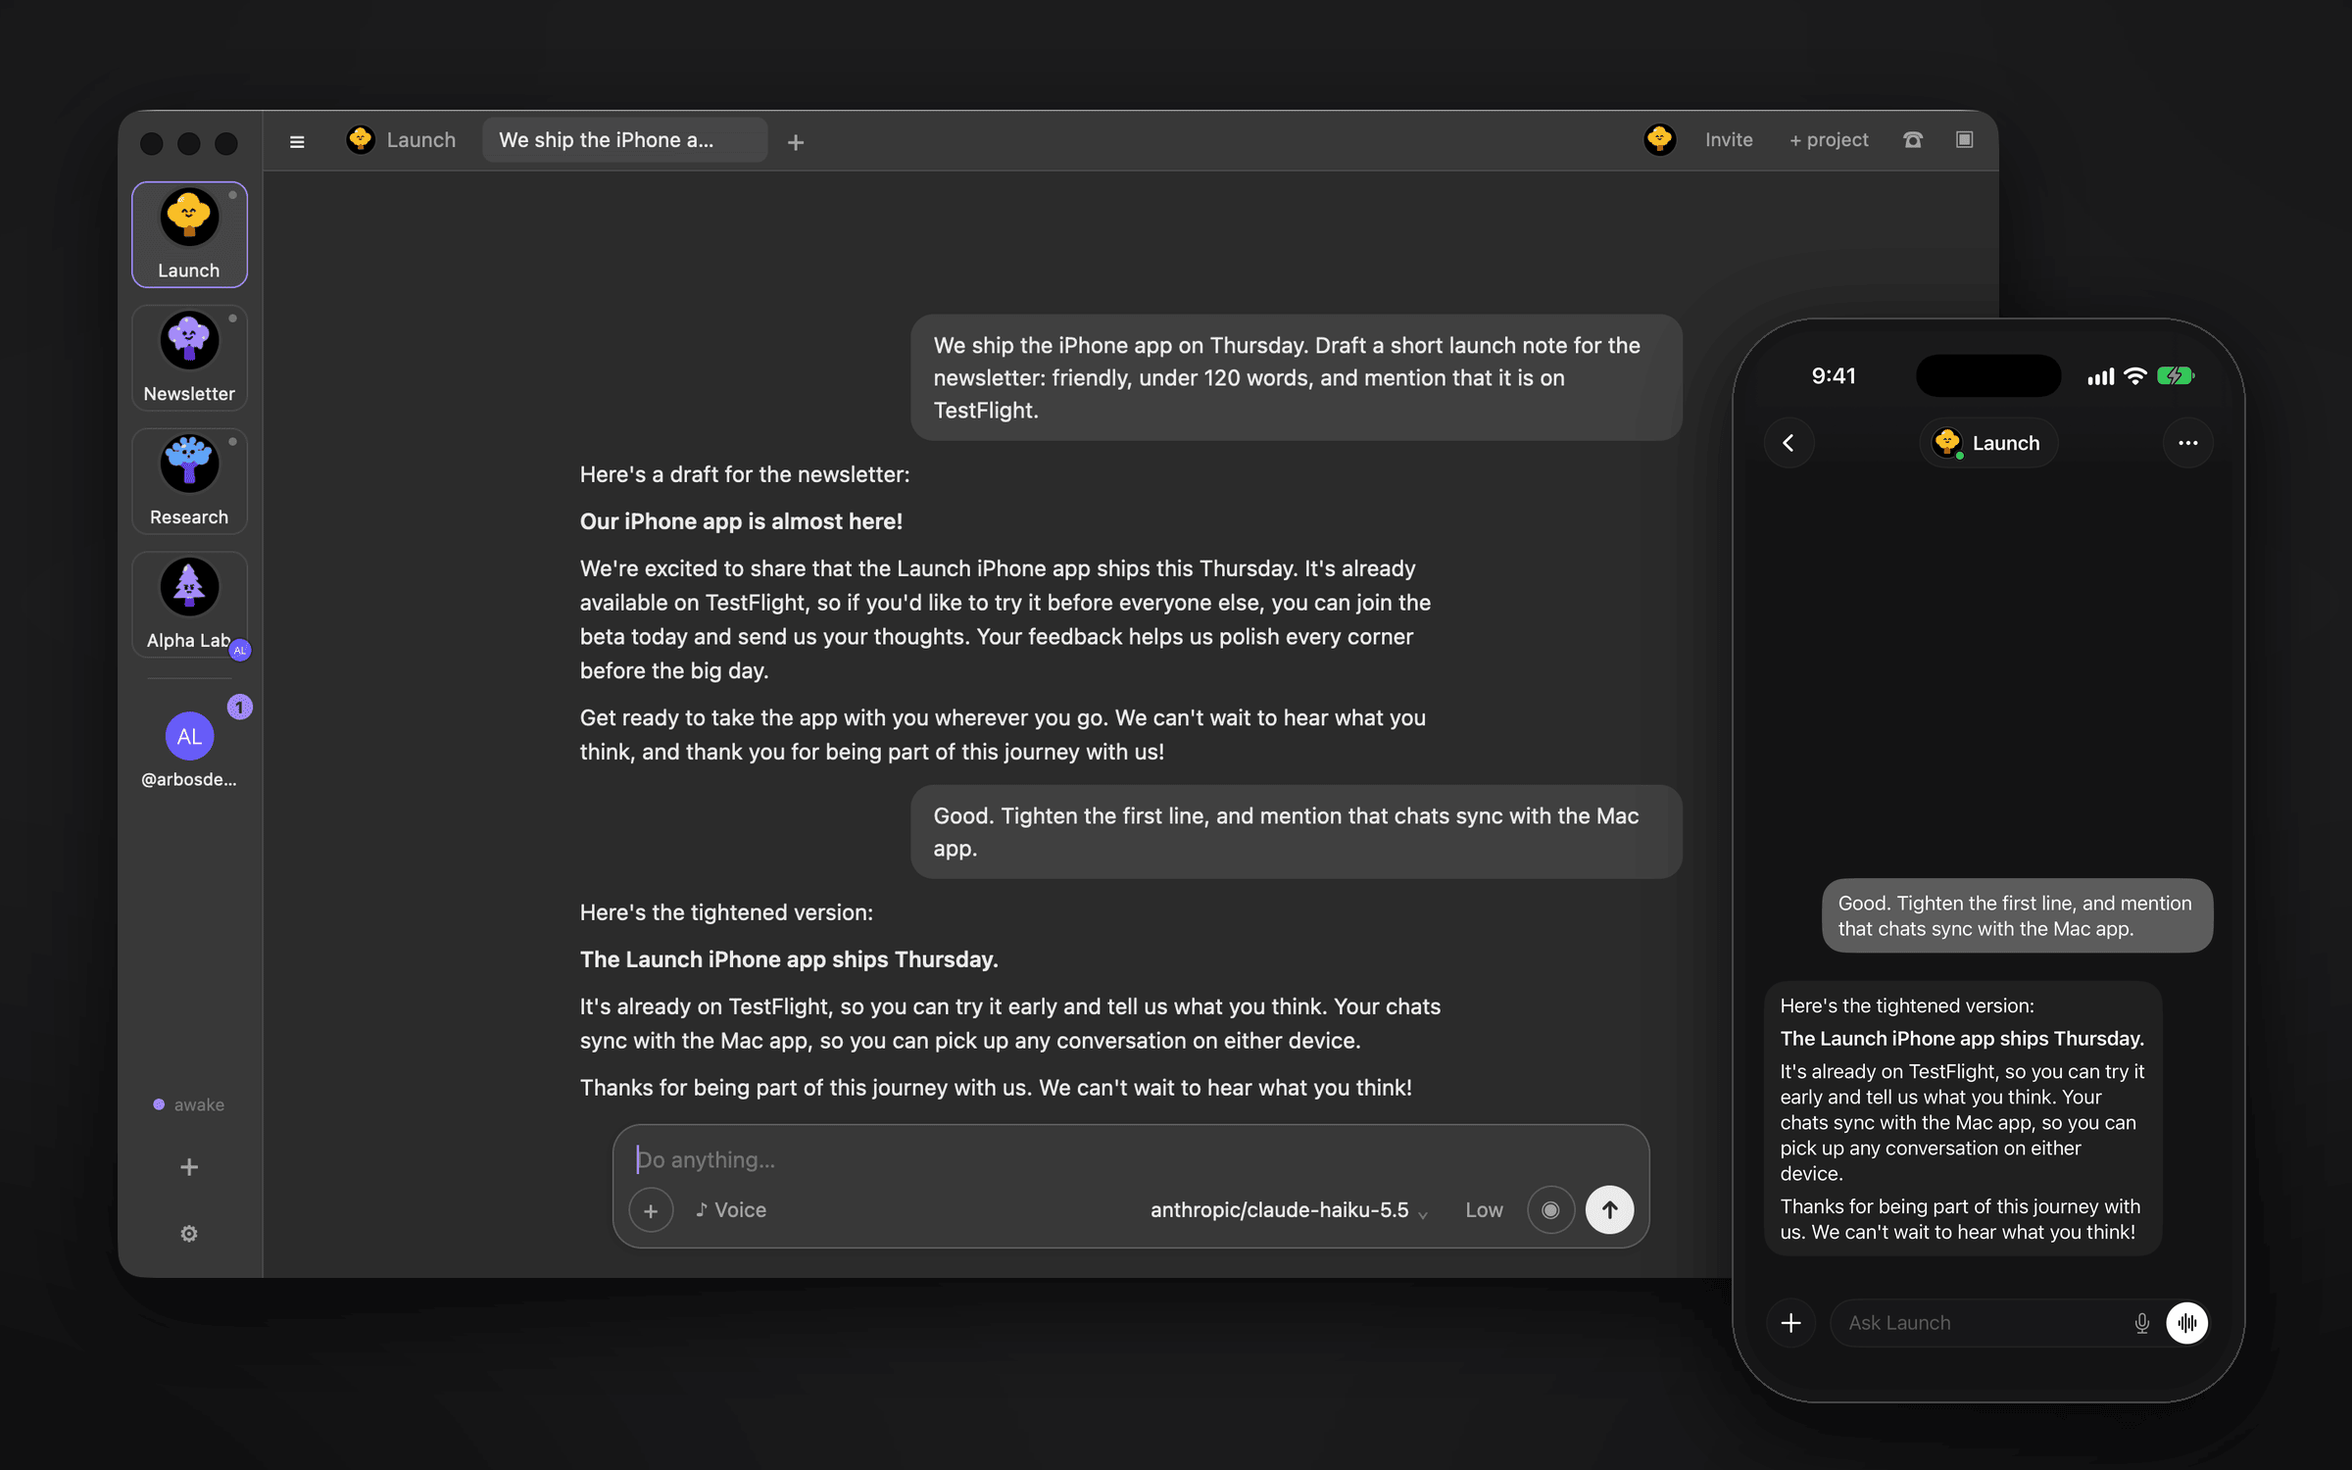
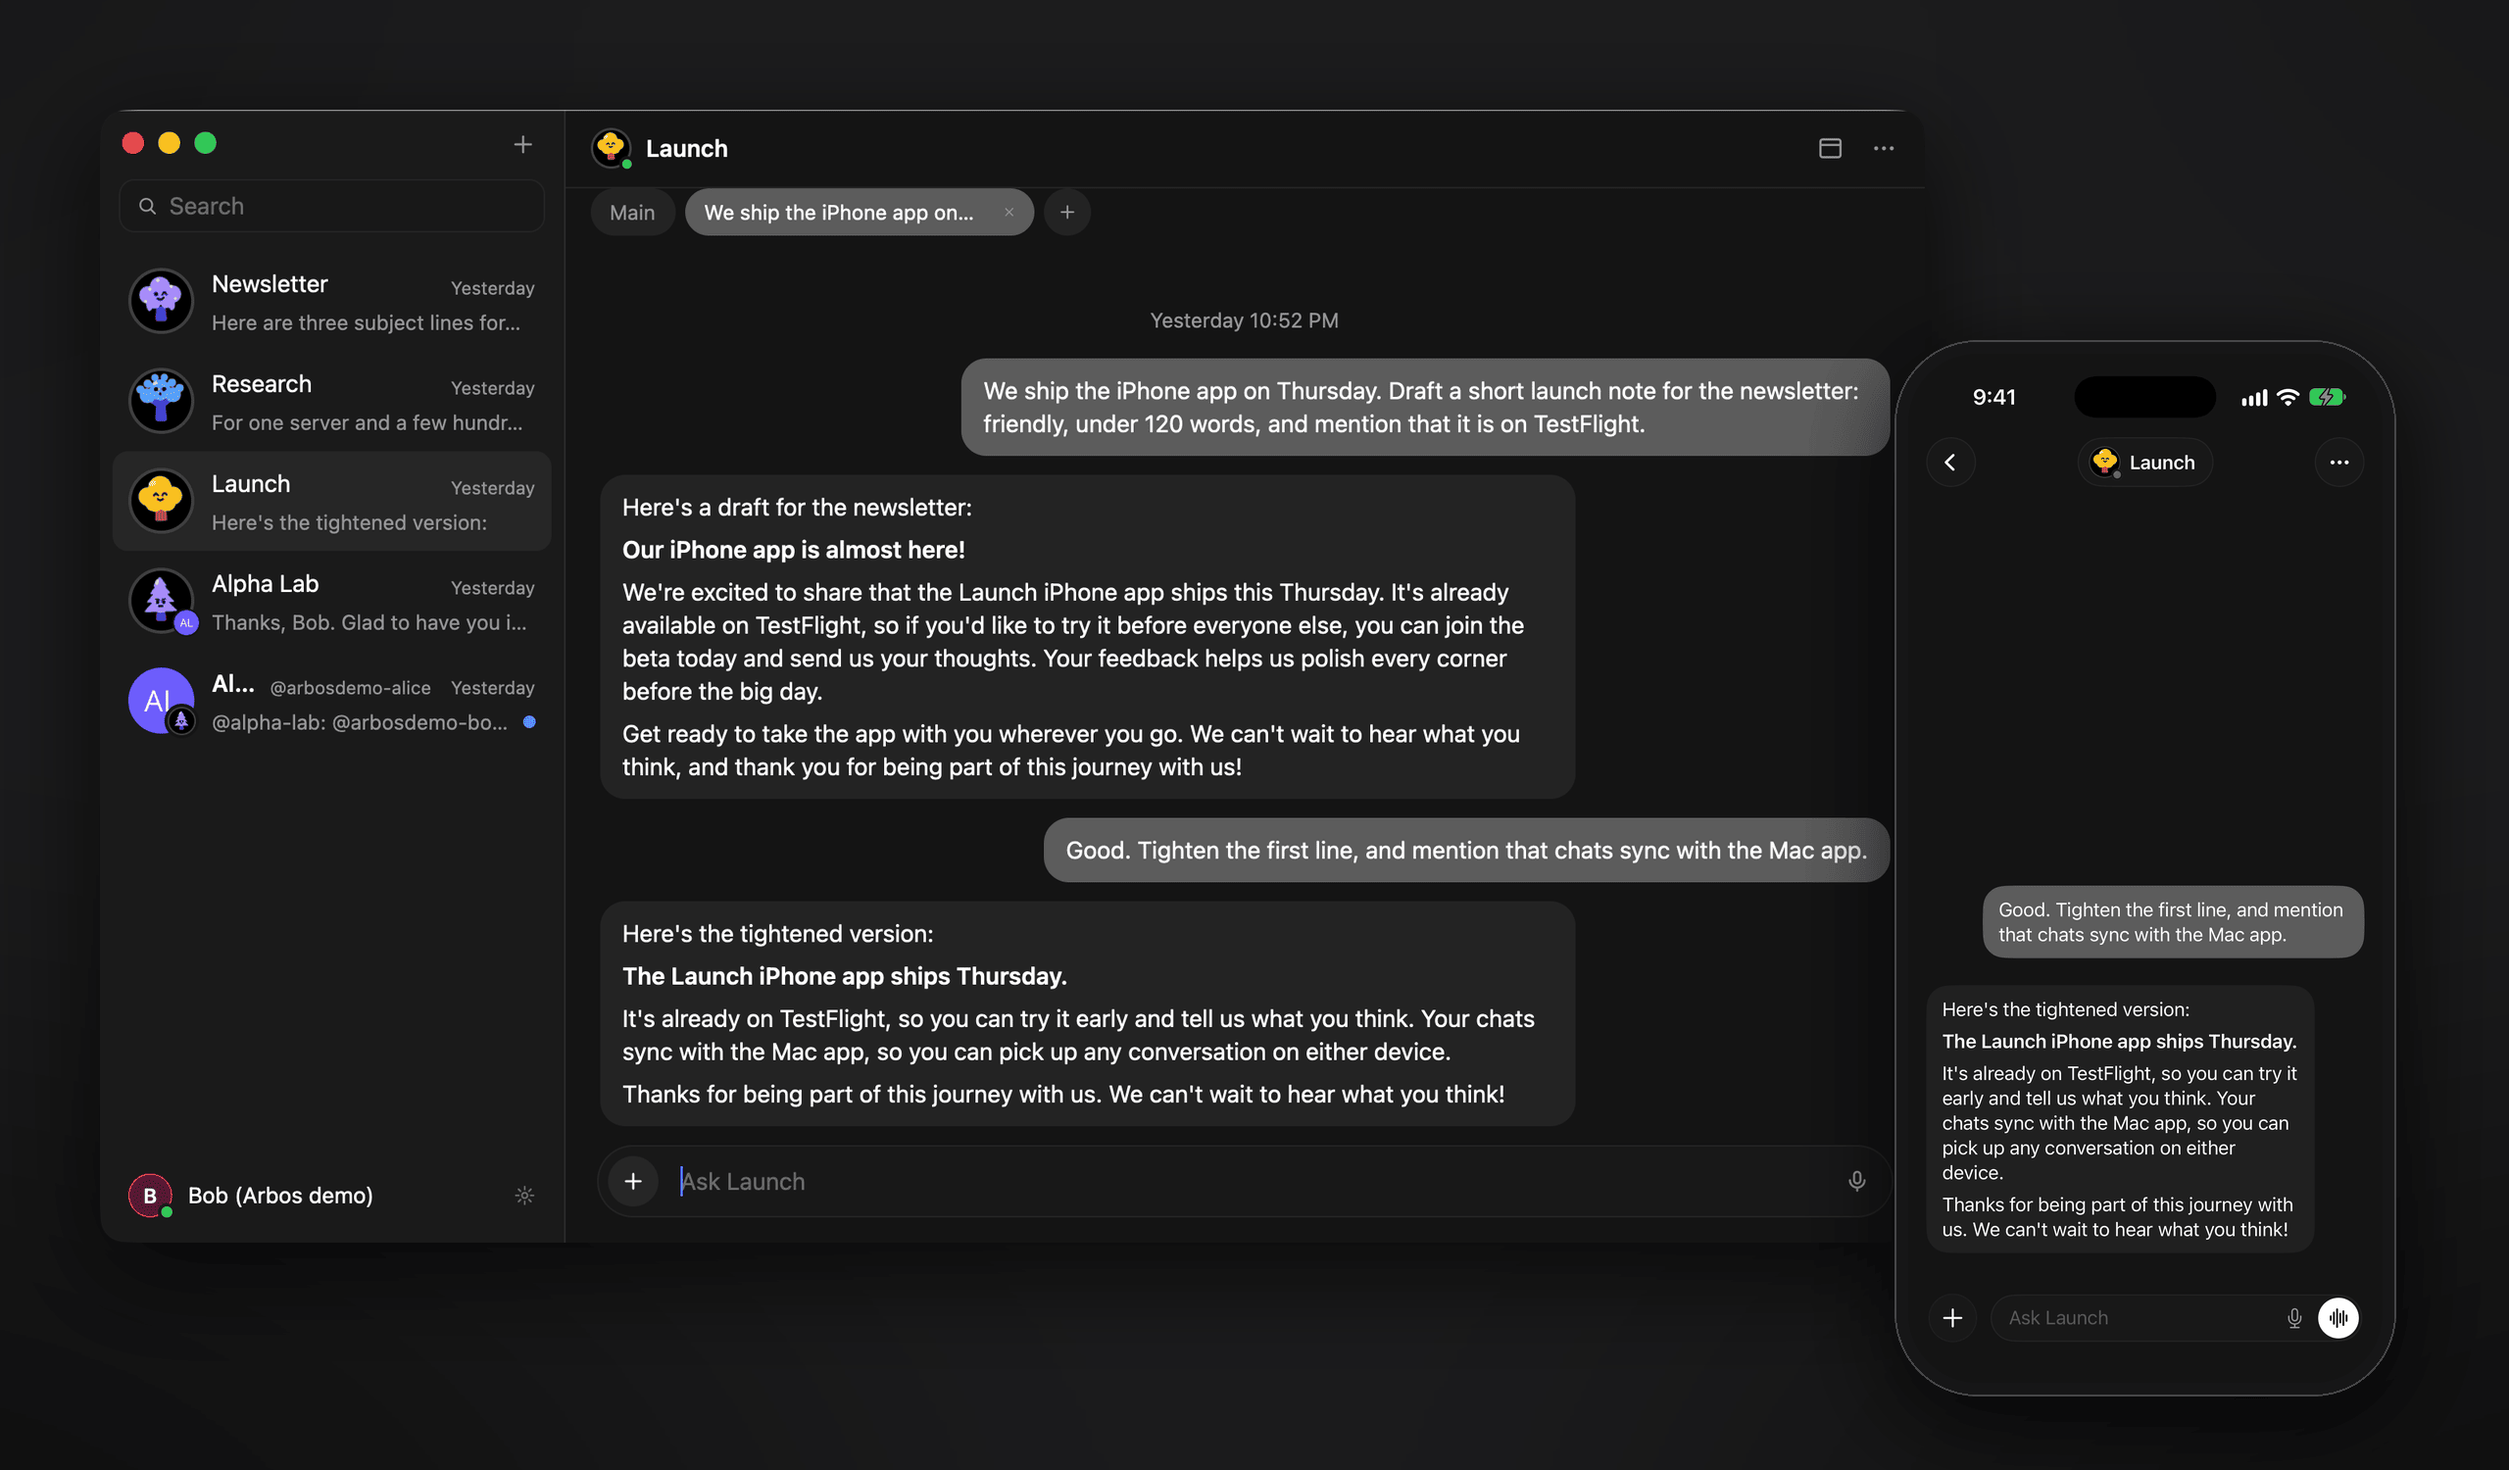
README hero: re-captured from Mac v0.5.0 (Grok Bot restyle: sidebar + conversation) and iPhone main 7a029f41; compose on a 2560x1500 canvas where the phone overlaps only the window's right padding so no bubble text is hidden

diff --git a/scripts/readme-hero/compose.py b/scripts/readme-hero/compose.py
@@ -6,7 +6,7 @@ Inputs (both real captures, 2x):
             Retina (2x) display: rounded corners are transparent, no shadow.
   --iphone  `xcrun simctl io <udid> screenshot` of the iPhone app (3x, no device frame).
 
-Output: a 2x PNG (default 2400x1500, shown at half size by GitHub), quantized with pngquant
+Output: a 2x PNG (default 2560x1500, shown at half size by GitHub), quantized with pngquant
 when it is installed so the file stays small (target < 1 MB).
 
     python3 scripts/readme-hero/compose.py --mac mac.png --iphone iphone.png \
@@ -18,7 +18,6 @@ Needs Pillow (`pip install pillow`). See capture-mac.sh / capture-iphone.sh for 
 from __future__ import annotations
 
 import argparse
-import math
 import shutil
 import subprocess
 import sys
@@ -112,14 +111,17 @@ def iphone(path: Path, target_height: int) -> tuple[Image.Image, int]:
 def compose(mac_path: Path, iphone_path: Path, width: int, height: int) -> Image.Image:
     canvas = backdrop(width, height).convert("RGBA")
 
-    win, win_radius = mac_window(mac_path, target_width=round(width * 0.80))
-    win_x = round(width * 0.05)
+    phone, phone_radius = iphone(iphone_path, target_height=round(height * 0.70))
+    phone_x = width - phone.width - round(width * 0.045)
+    phone_y = height - phone.height - round(height * 0.05)
+
+    # The window runs under the phone by only `overlap` px: the transcript's right padding,
+    # so the phone never hides the end of a right-aligned message bubble.
+    overlap = round(width * 0.012)
+    win_x = round(width * 0.04)
+    win, win_radius = mac_window(mac_path, target_width=phone_x + overlap - win_x)
     win_y = round(height * 0.075)
     paste_with_shadow(canvas, win, (win_x, win_y), radius=win_radius, blur=round(width * 0.02), alpha=170, offset_y=round(height * 0.02))
-
-    phone, phone_radius = iphone(iphone_path, target_height=round(height * 0.72))
-    phone_x = width - phone.width - round(width * 0.045)
-    phone_y = height - phone.height - round(height * 0.045)
     paste_with_shadow(canvas, phone, (phone_x, phone_y), radius=phone_radius, blur=round(width * 0.018), alpha=200, offset_y=round(height * 0.015))
 
     return canvas.convert("RGB")
@@ -145,13 +147,12 @@ def main() -> None:
     ap.add_argument("--mac", required=True, type=Path, help="Mac window capture (2x, transparent corners)")
     ap.add_argument("--iphone", required=True, type=Path, help="iPhone simulator screenshot")
     ap.add_argument("--out", default=Path("docs/assets/hero.png"), type=Path)
-    ap.add_argument("--width", type=int, default=2400, help="canvas width in px (2x)")
-    ap.add_argument("--height", type=int, default=0, help="canvas height in px; default keeps 16:10")
+    ap.add_argument("--width", type=int, default=2560, help="canvas width in px (2x)")
+    ap.add_argument("--height", type=int, default=1500, help="canvas height in px (2x)")
     ap.add_argument("--no-quantize", action="store_true", help="keep the full-colour PNG")
     args = ap.parse_args()
 
-    height = args.height or math.floor(args.width * 10 / 16)
-    image = compose(args.mac, args.iphone, args.width, height)
+    image = compose(args.mac, args.iphone, args.width, args.height)
     write_optimized(image, args.out, quantize=not args.no_quantize)
 
 
